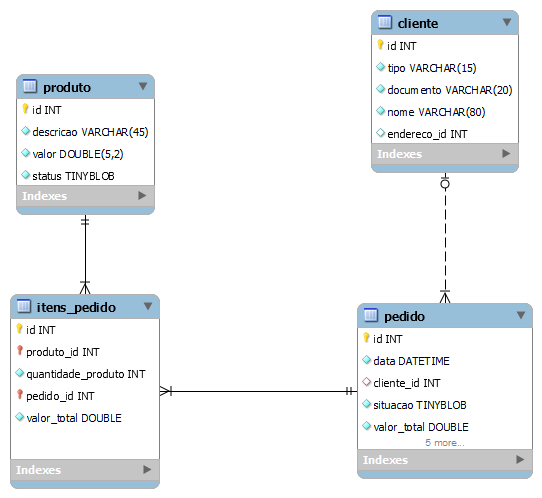
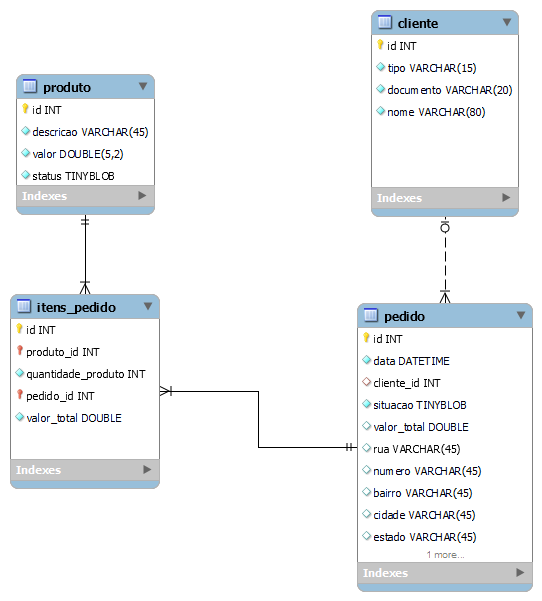
Alteracao Pedido

diff --git a/src/main/java/com/app_pedidos/model/services/PedidoService.java b/src/main/java/com/app_pedidos/model/services/PedidoService.java
@@ -38,6 +38,7 @@ public class PedidoService {
 		entity.setNumero(dto.getNumero());
 		entity.setBairro(dto.getBairro());
 		entity.setCidade(dto.getCidade());
+		entity.setEstado(dto.getEstado());
 		entity.setCep(dto.getCep());
 		entity.setSituacao(dto.isSituacao());
 		entity.setValorTotal(dto.getValorTotal());
@@ -75,6 +76,7 @@ public class PedidoService {
 				entity.setNumero(dto.getNumero());
 				entity.setBairro(dto.getBairro());
 				entity.setCidade(dto.getCidade());
+				entity.setEstado(dto.getEstado());
 				entity.setCep(dto.getCep());
 				entity.setSituacao(dto.isSituacao());
 				entity.setValorTotal(dto.getValorTotal());

diff --git a/src/test/java/com/app_pedidos/tests/factory/PedidoFactory.java b/src/test/java/com/app_pedidos/tests/factory/PedidoFactory.java
@@ -1,6 +1,14 @@
-package com.app_pedidos.tests.factory;
-
-import com.app_pedidos.model.entity.Pedido;
-
-public class PedidoFactory {
-}
+//package com.app_pedidos.tests.factory;
+//
+//import com.app_pedidos.model.entity.Cliente;
+//import com.app_pedidos.model.entity.Pedido;
+//
+//import java.time.LocalDate;
+//
+//public class PedidoFactory {
+//    public static Pedido createPedido(){
+//        Cliente cliente = ClienteFactory.createCliente();
+//        LocalDate data = LocalDate.now();
+//        return new Pedido(1, data, cliente, true, "Rua", "Bairro", "Cidade", "Estado","123", 80.0);
+//    }
+//}

diff --git a/src/main/java/com/app_pedidos/model/dto/PedidoDTO.java b/src/main/java/com/app_pedidos/model/dto/PedidoDTO.java
@@ -25,6 +25,7 @@ public class PedidoDTO implements Serializable {
     private String numero;
     private String bairro;
     private String cidade;
+    private String estado;
     private String cep;
     private double valorTotal;
 
@@ -36,6 +37,7 @@ public class PedidoDTO implements Serializable {
         this.rua = pedido.getRua();
         this.numero = pedido.getNumero();
         this.cidade = pedido.getCidade();
+        this.estado = pedido.getEstado();
         this.cep = pedido.getCep();
         this.valorTotal = pedido.getValorTotal();
     }

diff --git a/src/main/java/com/app_pedidos/model/entity/Pedido.java b/src/main/java/com/app_pedidos/model/entity/Pedido.java
@@ -26,6 +26,8 @@ public class Pedido {
     private String numero;
     private String bairro;
     private String cidade;
+    private String estado;
     private String cep;
     private double valorTotal;
+
 }
